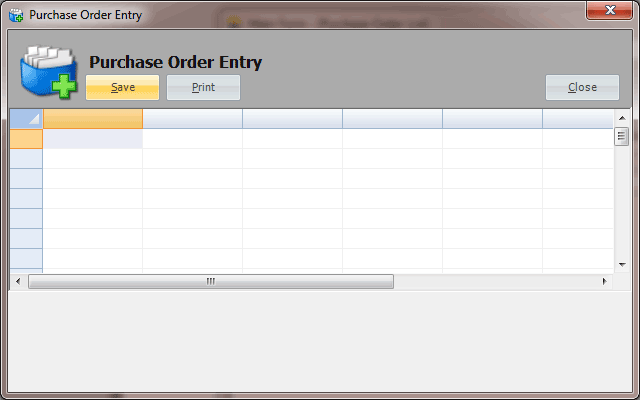
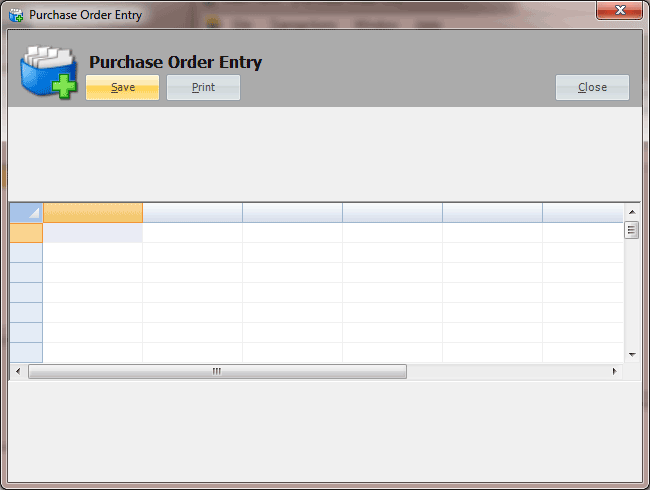
Update form master-detail

Changed region(s): [[0.0, 0.0, 1.0, 1.0]]

diff --git a/Biruni.Shared/Templates/frmEntry2.Designer.cs b/Biruni.Shared/Templates/frmEntry2.Designer.cs
@@ -37,6 +37,7 @@
             this.btnAdd = new C1.Win.C1Input.C1Button();
             this.panel2 = new System.Windows.Forms.Panel();
             this.c1FlexGrid1 = new C1.Win.C1FlexGrid.C1FlexGrid();
+            this.panel3 = new System.Windows.Forms.Panel();
             this.panel1.SuspendLayout();
             ((System.ComponentModel.ISupportInitialize)(this.picTitle)).BeginInit();
             ((System.ComponentModel.ISupportInitialize)(this.c1FlexGrid1)).BeginInit();
@@ -53,7 +54,7 @@
             this.panel1.Dock = System.Windows.Forms.DockStyle.Top;
             this.panel1.Location = new System.Drawing.Point(0, 0);
             this.panel1.Name = "panel1";
-            this.panel1.Size = new System.Drawing.Size(624, 77);
+            this.panel1.Size = new System.Drawing.Size(634, 77);
             this.panel1.TabIndex = 2;
             // 
             // btnPrint
@@ -80,7 +81,7 @@
             // btnClose
             // 
             this.btnClose.Anchor = ((System.Windows.Forms.AnchorStyles)((System.Windows.Forms.AnchorStyles.Top | System.Windows.Forms.AnchorStyles.Right)));
-            this.btnClose.Location = new System.Drawing.Point(537, 44);
+            this.btnClose.Location = new System.Drawing.Point(547, 44);
             this.btnClose.Name = "btnClose";
             this.btnClose.Size = new System.Drawing.Size(75, 27);
             this.btnClose.TabIndex = 6;
@@ -113,30 +114,39 @@
             // 
             // panel2
             // 
-            this.panel2.Dock = System.Windows.Forms.DockStyle.Bottom;
-            this.panel2.Location = new System.Drawing.Point(0, 262);
+            this.panel2.Dock = System.Windows.Forms.DockStyle.Top;
+            this.panel2.Location = new System.Drawing.Point(0, 77);
             this.panel2.Name = "panel2";
-            this.panel2.Size = new System.Drawing.Size(624, 100);
+            this.panel2.Size = new System.Drawing.Size(634, 94);
             this.panel2.TabIndex = 3;
             // 
             // c1FlexGrid1
             // 
             this.c1FlexGrid1.ColumnInfo = "10,1,0,0,0,100,Columns:";
             this.c1FlexGrid1.Dock = System.Windows.Forms.DockStyle.Fill;
-            this.c1FlexGrid1.Location = new System.Drawing.Point(0, 77);
+            this.c1FlexGrid1.Location = new System.Drawing.Point(0, 171);
             this.c1FlexGrid1.Name = "c1FlexGrid1";
             this.c1FlexGrid1.Rows.DefaultSize = 20;
-            this.c1FlexGrid1.Size = new System.Drawing.Size(624, 185);
+            this.c1FlexGrid1.Size = new System.Drawing.Size(634, 181);
             this.c1FlexGrid1.StyleInfo = resources.GetString("c1FlexGrid1.StyleInfo");
             this.c1FlexGrid1.TabIndex = 4;
             this.c1FlexGrid1.VisualStyle = C1.Win.C1FlexGrid.VisualStyle.Office2007Blue;
+            // 
+            // panel3
+            // 
+            this.panel3.Dock = System.Windows.Forms.DockStyle.Bottom;
+            this.panel3.Location = new System.Drawing.Point(0, 352);
+            this.panel3.Name = "panel3";
+            this.panel3.Size = new System.Drawing.Size(634, 100);
+            this.panel3.TabIndex = 5;
             // 
             // frmEntry2
             // 
             this.AutoScaleDimensions = new System.Drawing.SizeF(6F, 13F);
             this.AutoScaleMode = System.Windows.Forms.AutoScaleMode.Font;
-            this.ClientSize = new System.Drawing.Size(624, 362);
+            this.ClientSize = new System.Drawing.Size(634, 452);
             this.Controls.Add(this.c1FlexGrid1);
+            this.Controls.Add(this.panel3);
             this.Controls.Add(this.panel2);
             this.Controls.Add(this.panel1);
             this.DoubleBuffered = true;
@@ -166,5 +176,6 @@
         private System.Windows.Forms.Panel panel2;
         private C1.Win.C1FlexGrid.C1FlexGrid c1FlexGrid1;
         protected C1.Win.C1Input.C1Button btnPrint;
+        private System.Windows.Forms.Panel panel3;
     }
 }

diff --git a/Biruni.Orders/Entry/frmReceivingReportEntry.Designer.cs b/Biruni.Orders/Entry/frmReceivingReportEntry.Designer.cs
@@ -32,15 +32,23 @@
             ((System.ComponentModel.ISupportInitialize)(this.picTitle)).BeginInit();
             this.SuspendLayout();
             // 
+            // panel1
+            // 
+            this.panel1.Size = new System.Drawing.Size(634, 77);
+            // 
             // lblTitle
             // 
             this.lblTitle.Size = new System.Drawing.Size(197, 19);
             this.lblTitle.Text = "Receiving Report Entry";
             // 
+            // btnClose
+            // 
+            this.btnClose.Location = new System.Drawing.Point(547, 44);
+            // 
             // frmReceivingReportEntry
             // 
             this.AutoScaleDimensions = new System.Drawing.SizeF(6F, 13F);
-            this.ClientSize = new System.Drawing.Size(624, 362);
+            this.ClientSize = new System.Drawing.Size(634, 452);
             this.Name = "frmReceivingReportEntry";
             this.Text = "Receiving Report Entry";
             this.panel1.ResumeLayout(false);

diff --git a/Biruni.Orders/Entry/frmPurchaseOrderEntry.Designer.cs b/Biruni.Orders/Entry/frmPurchaseOrderEntry.Designer.cs
@@ -32,15 +32,23 @@
             ((System.ComponentModel.ISupportInitialize)(this.picTitle)).BeginInit();
             this.SuspendLayout();
             // 
+            // panel1
+            // 
+            this.panel1.Size = new System.Drawing.Size(634, 77);
+            // 
             // lblTitle
             // 
             this.lblTitle.Size = new System.Drawing.Size(182, 19);
             this.lblTitle.Text = "Purchase Order Entry";
             // 
+            // btnClose
+            // 
+            this.btnClose.Location = new System.Drawing.Point(547, 44);
+            // 
             // frmPurchaseOrderEntry
             // 
             this.AutoScaleDimensions = new System.Drawing.SizeF(6F, 13F);
-            this.ClientSize = new System.Drawing.Size(624, 362);
+            this.ClientSize = new System.Drawing.Size(634, 452);
             this.Name = "frmPurchaseOrderEntry";
             this.Text = "Purchase Order Entry";
             this.panel1.ResumeLayout(false);
